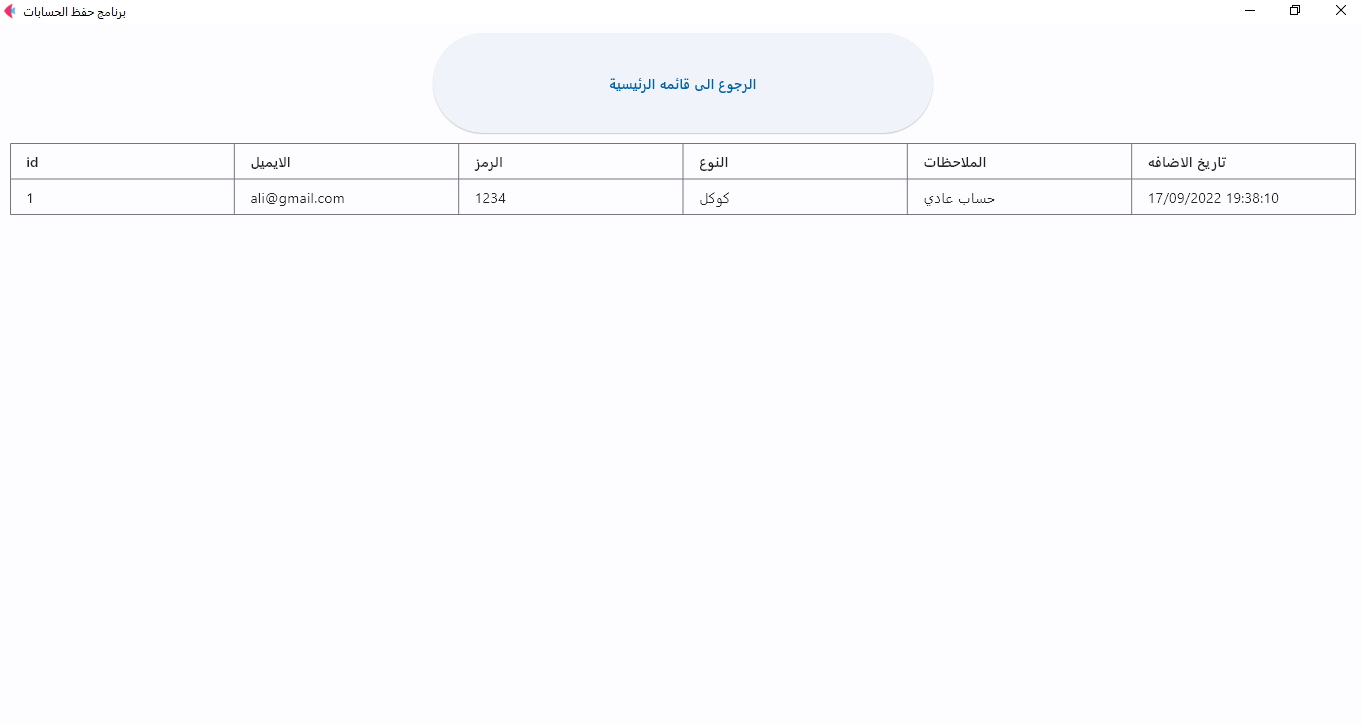
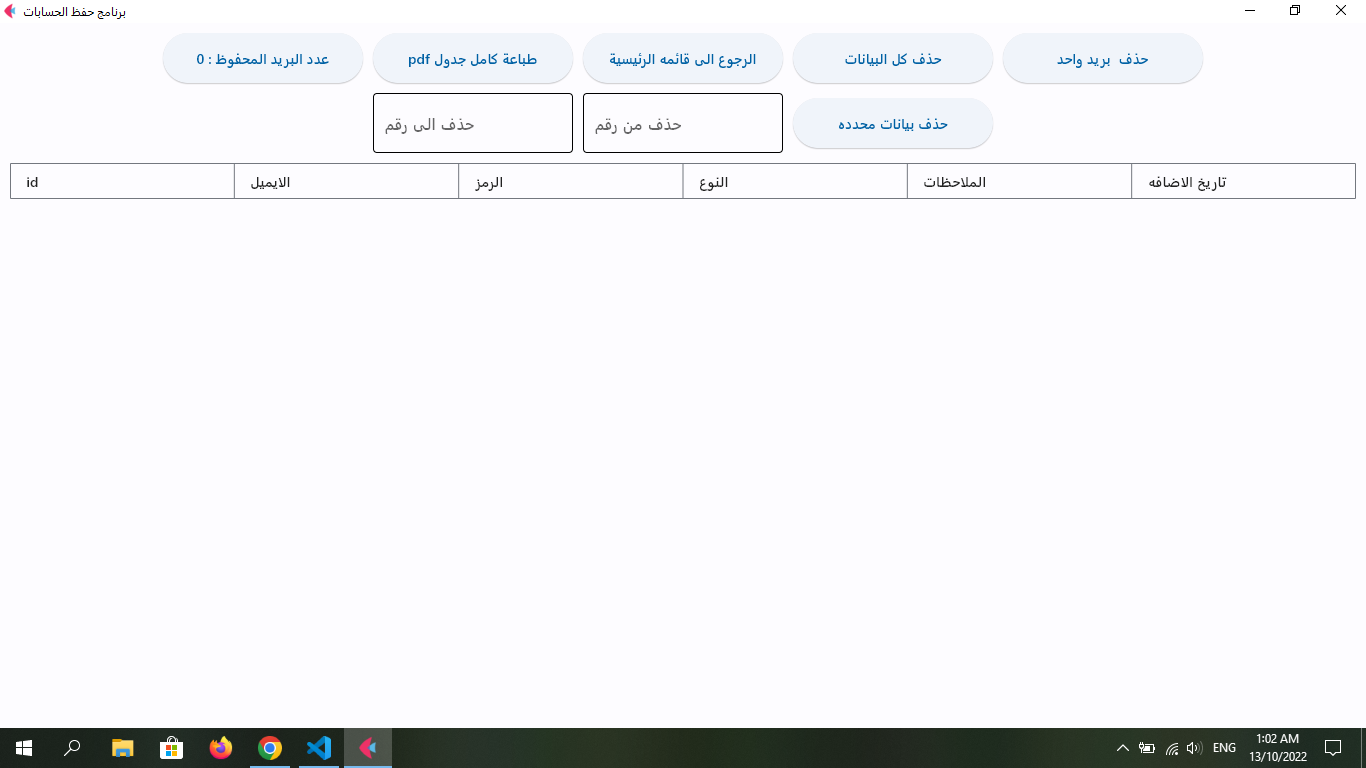
Add

diff --git a/App.py b/App.py
@@ -7,6 +7,7 @@ from datetime import date
 from datetime import datetime
 import backend
 import MakePdf
+import os
 
 
 
@@ -35,8 +36,13 @@ def main(page):
         chukdel=ElevatedButton(deldata.value+": تم مسح ايدي  ", on_click=backmain  ,width=200,height=50,)
         page.add(chukdel)
         backend.deleteitem(deldata.value)
-
-
+    def del_by_numbers(e):
+        for number in range(int(del_from_number.value),int(del_to_number.value)):
+            backend.deleteitem(number)
+    def del_all_data(e):
+        os.remove("./mydata.db")
+        page.clean()
+        page.add(Row([ElevatedButton("تم مسح كل بيانات و الان اخرج من برنامج و شغله مره اخرى", on_click=backmain,width=400,height=80)],alignment="center"))
     def btn_click(e):
         #table data show
         page.clean()
@@ -51,18 +57,25 @@ def main(page):
             value_matrix=backend.View(),
             )
             return writer.dumps()
-        page.add(Row([savepdfs,ElevatedButton("الرجوع الى قائمه الرئيسية", on_click=backmain,width=200,height=50)],alignment="center"))
+        number_all_table=0
+        for xn in backend.View():
+            number_all_table+=1
+        #print(number_all_table)
+        page.add(Row([ElevatedButton(str(number_all_table)+" : عدد البريد المحفوظ",width=200,height=50),savepdfs,ElevatedButton("الرجوع الى قائمه الرئيسية", on_click=backmain,width=200,height=50),del_all_table,del_one_table],alignment="center"))
+        page.add(Row([del_to_number,del_from_number,del_all_bynumber],alignment="center"))
         page.add(
         Markdown(
            main1(),
             extension_set="gitHubWeb",
             expand=True,
-            selectable=True
+            selectable=True,
+            
             
             
         ))
 
-
+    def save_pdf(e):
+        MakePdf.savepdfs()
     def input_data(e):
         #page input data
         page.clean()
@@ -74,7 +87,7 @@ def main(page):
         bat1=ElevatedButton("جدول البيانات المحفوضه", on_click=btn_click  ,width=200,height=120)
         bat2=ElevatedButton("اضافة بيانات جديده", on_click=input_data  ,width=200,height=120,)
         bat3=ElevatedButton("مسح البيانات", on_click=showdel  ,width=200,height=120,)
-        page.add( Column([ElevatedButton("مرحبا بكم في نظام حفظ الحسابات اختر احدي الخيارات",width=500,height=100,),],width=500,height=100,alignment="center",spacing=42,),Row([bat1,bat2,bat3] ,alignment="center",spacing=40,) )
+        page.add( Row([ElevatedButton("مرحبا بكم في نظام حفظ الحسابات اختر احدي الخيارات",width=500,height=100,),],width=500,height=100,alignment="center",spacing=42,),Row([bat1,bat2,bat3] ,alignment="center",spacing=40,) )
 
 
     backmain("e")
@@ -83,17 +96,21 @@ def main(page):
     txt2=TextField(label="الرمز",width=300,height=100  ,multiline=True,text_align='center',text_size=20 , )
     txt3= TextField(label="النوع",width=300,height=100  ,multiline=True,text_align='center',text_size=20 )
     txt4= TextField(label="الملاحظات",width=300,height=100  ,multiline=True,text_align='center',text_size=20 )
-    txt_name4 = Row([txt1,txt2,txt3,txt4  ])
+    txt_name4 = Column([txt1,txt2,txt3,txt4  ],alignment="center")
 
-    savedata=ElevatedButton("حفظ بيانات", on_click=get_data_fro_input  ,width=170,height=120,)
-    hudedata=ElevatedButton("الرجوع الى قائمه الرئيسية", on_click=backmain  ,width=200,height=120,)
+    savedata=ElevatedButton("حفظ بيانات", on_click=get_data_fro_input  ,width=200,height=50,)
+    hudedata=ElevatedButton("الرجوع الى قائمه الرئيسية", on_click=backmain  ,width=200,height=50,)
     #del data page
-    deldata=TextField(label="ادخل ايدي",width=300,height=100  ,multiline=True,text_align='center',text_size=20  ,border_radius=border_radius.all(5))
-    delsdata=ElevatedButton("مسح", on_click=del_data  ,width=170,height=100,)
-    hadedel=ElevatedButton("الرجوع الى قائمه الرئيسية", on_click=backmain  ,width=200,height=100,)
+    deldata=TextField(label="ادخل ايدي",width=300,height=80  ,multiline=True,text_align='center',text_size=20  ,)
+    delsdata=ElevatedButton("مسح", on_click=del_data  ,width=200,height=50,)
+    hadedel=ElevatedButton("الرجوع الى قائمه الرئيسية", on_click=backmain  ,width=200,height=50,)
     chukdel=ElevatedButton(" تم مسح ايدي  ", on_click=backmain  ,width=200,height=50,)
     chukِAdd=ElevatedButton(" تم اضافة الحساب بنجاح اضغط للذهاب للجدول و التحقق", on_click=btn_click  ,width=400,height=50,)
-    savepdfs=ElevatedButton("pdf طباعة جدول", on_click=MakePdf.savepdf()  ,width=200,height=50,)
-
+    savepdfs=ElevatedButton("pdf طباعة كامل جدول", on_click=save_pdf,width=200,height=50,)
+    del_all_table=ElevatedButton("حذف كل البيانات"  ,on_click=del_all_data,width=200,height=50,)
+    del_one_table=ElevatedButton("حذف  بريد واحد"  ,on_click=showdel,width=200,height=50,)
+    del_from_number=TextField(label="حذف من رقم ",width=200,height=60  ,multiline=True,text_align='center',text_size=16  ,)
+    del_to_number=TextField(label="حذف الى رقم ",width=200,height=60 ,multiline=True,text_align='center',text_size=16  ,)
+    del_all_bynumber=ElevatedButton("حذف بيانات محدده"  ,on_click=del_by_numbers,width=200,height=50,)
 #Run
 flet.app(target=main)

diff --git a/README.md b/README.md
@@ -10,7 +10,6 @@
 
 ![Home App](https://github.com/Ali-Adnan219/Email-saving-system-2/blob/main/image/img-4.png)
 
-![Home App](https://github.com/Ali-Adnan219/Email-saving-system-2/blob/main/image/img-5.png)
 
 
  
